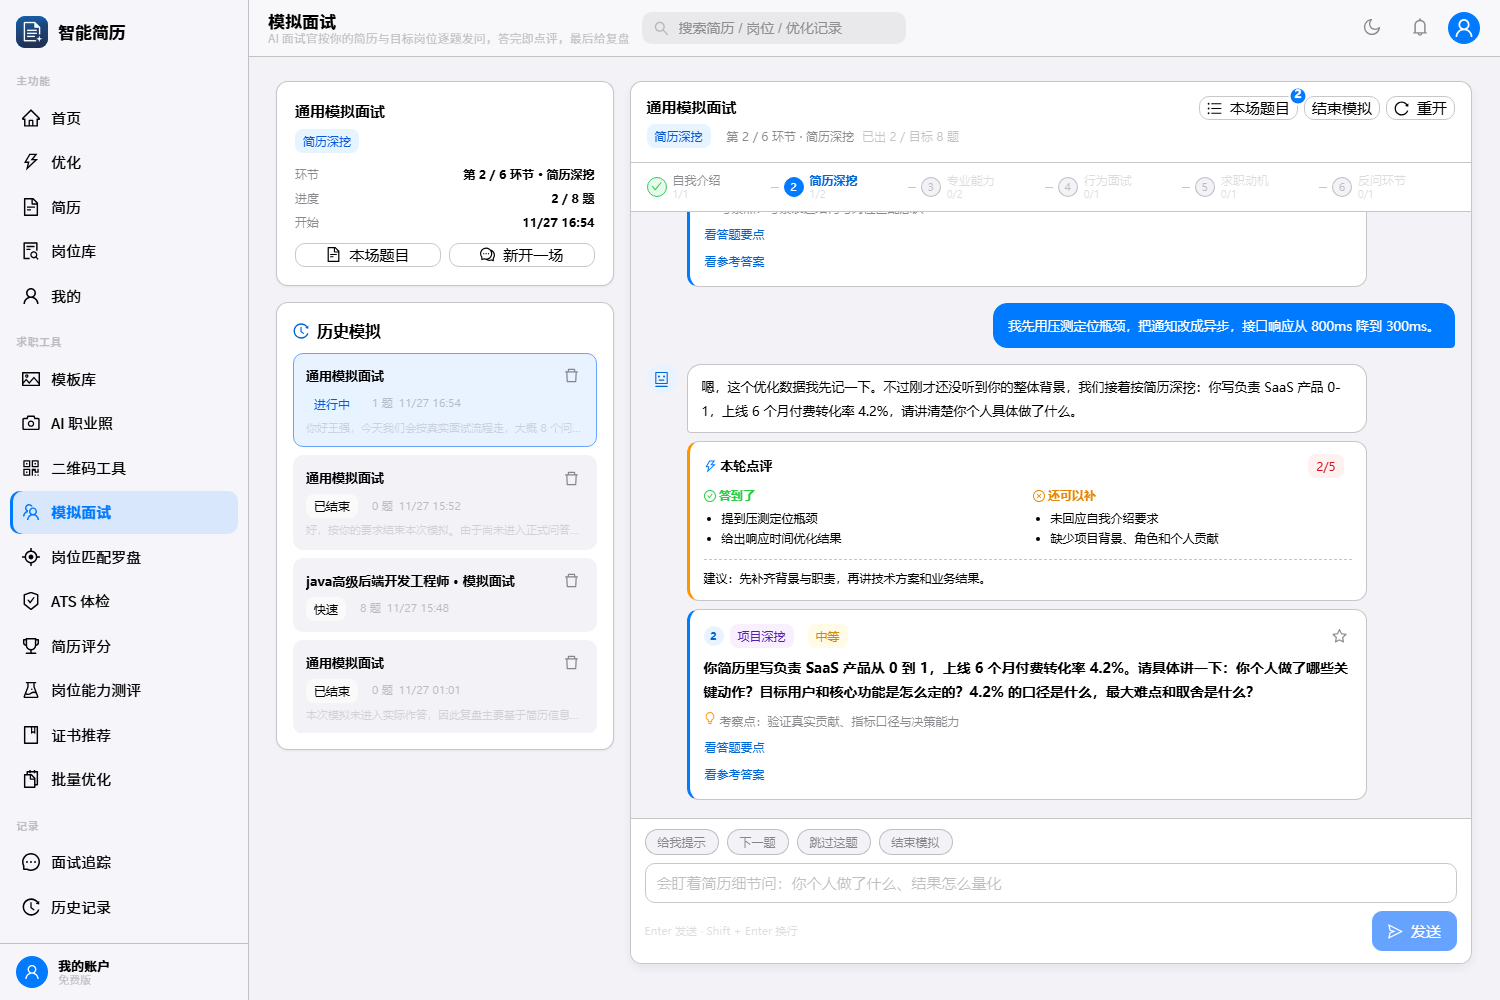
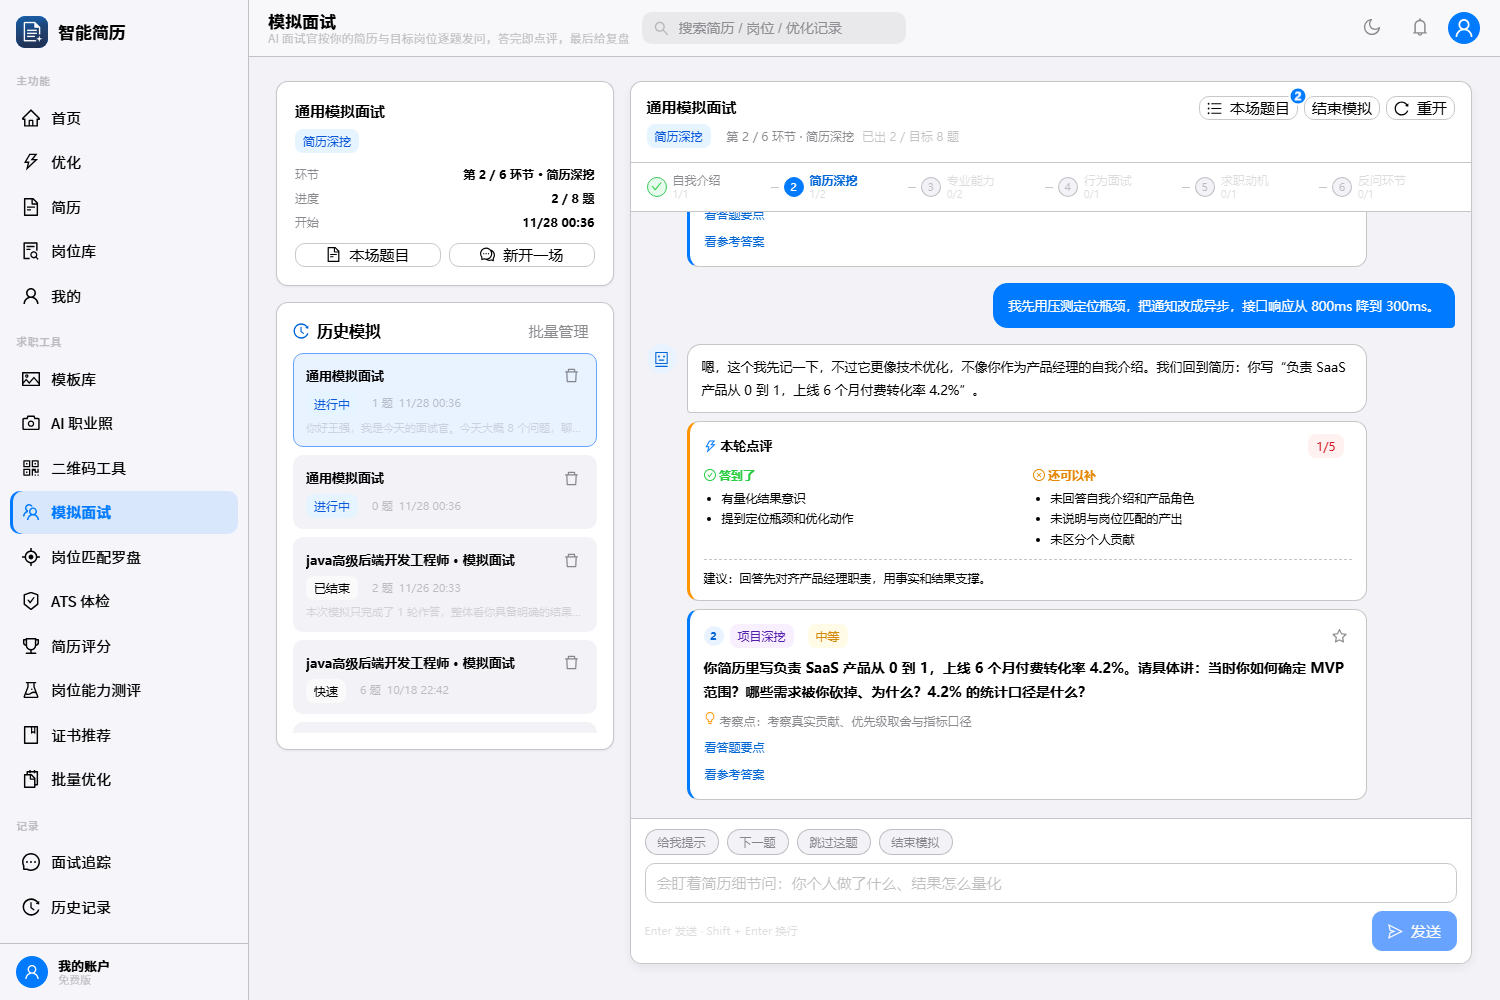
feat(interview): 历史模拟支持批量管理（批量删除）
- 后端新增 POST /api/interview/sessions/batch-delete：逐条校验归属，
  不存在/非本人的 ID 静默跳过并返回 {deleted, skipped}；空列表 422
- 侧栏新增批量管理模式：批量管理入口 → 条目复选框（整行可点选）→
  全选/取消全选 → 删除所选（Popconfirm 二次确认）→ 成功后自动退出；
  批量模式下隐藏单条删除按钮避免操作混淆
- 删除当前打开的会话时主区域同步回到配置面板
- 复选框包 span stopPropagation，防整行 onClick 双重切换
- E2E 新增批量段（两种模式均覆盖）：进入/全选/清空/计数/删除/自动退出；
  删除断言按「选中 ID 从列表消失」判定——总数断言有竞态
  （no-live 模式开场会话正落进列表，实测 13→12 假失败）
- 验收：pytest 316 passed、前端 443/443、tsc 0 错、E2E 47/47；
  接口冒烟：删 2 跳过不存在 1、空列表 422

diff --git a/frontend/src/app/interview/components/SessionSidebar.tsx b/frontend/src/app/interview/components/SessionSidebar.tsx
@@ -1,8 +1,8 @@
 'use client'
 
-/** 左栏：历史模拟会话。 */
-import React from 'react'
-import { Button, Empty, Popconfirm, Spin, Tag } from 'antd'
+/** 左栏：历史模拟会话。支持批量管理模式（勾选 → 全选 → 批量删除）。 */
+import React, { useState } from 'react'
+import { Button, Checkbox, Empty, Popconfirm, Spin, Tag } from 'antd'
 import { DeleteOutlined, HistoryOutlined } from '@ant-design/icons'
 
 import type { InterviewSessionItem } from '@/types'
@@ -20,18 +20,100 @@ export default function SessionSidebar({
   loading,
   onOpen,
   onDelete,
+  onBatchDelete,
 }: {
   sessions: InterviewSessionItem[]
   activeId?: string
   loading: boolean
   onOpen: (id: string) => void
   onDelete: (id: string) => void
+  /** 批量删除：返回实际删除数（>0 时自动退出批量模式）；失败抛错由父级提示 */
+  onBatchDelete: (ids: string[]) => Promise<number>
 }) {
+  const [batchMode, setBatchMode] = useState(false)
+  const [selected, setSelected] = useState<Set<string>>(new Set())
+  const [deleting, setDeleting] = useState(false)
+
+  const toggle = (id: string) => {
+    setSelected((prev) => {
+      const next = new Set(prev)
+      if (next.has(id)) next.delete(id)
+      else next.add(id)
+      return next
+    })
+  }
+
+  const exitBatch = () => {
+    setBatchMode(false)
+    setSelected(new Set())
+  }
+
+  const allSelected = sessions.length > 0 && selected.size === sessions.length
+  const confirmBatchDelete = async () => {
+    setDeleting(true)
+    try {
+      const deleted = await onBatchDelete(Array.from(selected))
+      if (deleted > 0) exitBatch()
+    } finally {
+      setDeleting(false)
+    }
+  }
+
   return (
     <div className="app-card mock-side" style={{ padding: 16, marginTop: 16 }}>
-      <div className="app-section-title" style={{ marginBottom: 10 }}>
-        <HistoryOutlined style={{ color: 'var(--primary-600)' }} /> 历史模拟
+      <div className="mock-side-head">
+        <div className="app-section-title" style={{ marginBottom: 0 }}>
+          <HistoryOutlined style={{ color: 'var(--primary-600)' }} /> 历史模拟
+        </div>
+        {!batchMode && sessions.length > 0 && (
+          <Button
+            size="small"
+            type="text"
+            onClick={() => setBatchMode(true)}
+            data-testid="mock-batch-toggle"
+          >
+            批量管理
+          </Button>
+        )}
       </div>
+
+      {batchMode && (
+        <div className="mock-side-toolbar" data-testid="mock-batch-bar">
+          <Checkbox
+            checked={allSelected}
+            indeterminate={selected.size > 0 && !allSelected}
+            onChange={(e) => setSelected(e.target.checked ? new Set(sessions.map((s) => s.id)) : new Set())}
+            data-testid="mock-batch-all"
+          >
+            全选
+          </Checkbox>
+          <span className="mock-side-toolbar-count">已选 {selected.size} 条</span>
+          <Popconfirm
+            title={`删除所选 ${selected.size} 条记录？`}
+            description="删除后无法恢复，包含其中的题目与复盘。"
+            okText="删除"
+            okButtonProps={{ danger: true }}
+            cancelText="取消"
+            onConfirm={confirmBatchDelete}
+            disabled={selected.size === 0}
+          >
+            <Button
+              size="small"
+              danger
+              disabled={selected.size === 0}
+              loading={deleting}
+              icon={<DeleteOutlined />}
+              data-testid="mock-batch-delete"
+            >
+              删除所选
+            </Button>
+          </Popconfirm>
+          <Button size="small" type="text" onClick={exitBatch}>
+            取消
+          </Button>
+        </div>
+      )}
+
       {loading ? (
         <div style={{ textAlign: 'center', padding: 16 }}><Spin size="small" /></div>
       ) : !sessions.length ? (
@@ -40,44 +122,55 @@ export default function SessionSidebar({
         <div className="mock-side-list">
           {sessions.map((s) => {
             const active = activeId === s.id
+            const checked = selected.has(s.id)
             const title = s.title || (s.job_title ? `${s.job_title} · 模拟面试` : '通用模拟面试')
             return (
               <div
                 key={s.id}
-                className={`mock-side-item${active ? ' active' : ''}`}
+                className={`mock-side-item${active ? ' active' : ''}${batchMode ? ' selectable' : ''}${checked ? ' checked' : ''}`}
                 data-testid="mock-session-item"
                 data-session-id={s.id}
-                onClick={() => onOpen(s.id)}
+                onClick={() => (batchMode ? toggle(s.id) : onOpen(s.id))}
               >
-                <div className="mock-side-row">
-                  <span className="mock-side-title">{title}</span>
-                  <Popconfirm
-                    title="删除这次记录？"
-                    onConfirm={(e) => { e?.stopPropagation(); onDelete(s.id) }}
-                    onCancel={(e) => e?.stopPropagation()}
-                  >
-                    <Button
-                      type="text"
-                      size="small"
-                      aria-label="删除"
-                      icon={<DeleteOutlined />}
-                      onClick={(e) => e.stopPropagation()}
-                    />
-                  </Popconfirm>
+                {batchMode && (
+                  /* Checkbox 点击会同时触发外层行 onClick，包一层 stopPropagation 防止双重切换 */
+                  <span className="mock-side-check" onClick={(e) => e.stopPropagation()}>
+                    <Checkbox checked={checked} onChange={() => toggle(s.id)} />
+                  </span>
+                )}
+                <div className="mock-side-main">
+                  <div className="mock-side-row">
+                    <span className="mock-side-title">{title}</span>
+                    {!batchMode && (
+                      <Popconfirm
+                        title="删除这次记录？"
+                        onConfirm={(e) => { e?.stopPropagation(); onDelete(s.id) }}
+                        onCancel={(e) => e?.stopPropagation()}
+                      >
+                        <Button
+                          type="text"
+                          size="small"
+                          aria-label="删除"
+                          icon={<DeleteOutlined />}
+                          onClick={(e) => e.stopPropagation()}
+                        />
+                      </Popconfirm>
+                    )}
+                  </div>
+                  <div className="mock-side-meta">
+                    {s.mode === 'quick' && <Tag>快速</Tag>}
+                    {s.mode !== 'quick' && (
+                      <Tag color={s.stage === 'finished' ? 'default' : 'blue'}>
+                        {s.stage === 'finished' ? '已结束' : '进行中'}
+                      </Tag>
+                    )}
+                    {s.status === 'failed' && <Tag color="red">失败</Tag>}
+                    {s.status === 'pending' && <Tag color="blue">生成中</Tag>}
+                    <span>{s.question_count || 0} 题</span>
+                    <span>{fmt(s.created_at)}</span>
+                  </div>
+                  {s.last_message && <div className="mock-side-last">{s.last_message}</div>}
                 </div>
-                <div className="mock-side-meta">
-                  {s.mode === 'quick' && <Tag>快速</Tag>}
-                  {s.mode !== 'quick' && (
-                    <Tag color={s.stage === 'finished' ? 'default' : 'blue'}>
-                      {s.stage === 'finished' ? '已结束' : '进行中'}
-                    </Tag>
-                  )}
-                  {s.status === 'failed' && <Tag color="red">失败</Tag>}
-                  {s.status === 'pending' && <Tag color="blue">生成中</Tag>}
-                  <span>{s.question_count || 0} 题</span>
-                  <span>{fmt(s.created_at)}</span>
-                </div>
-                {s.last_message && <div className="mock-side-last">{s.last_message}</div>}
               </div>
             )
           })}

diff --git a/frontend/src/app/interview/page.tsx b/frontend/src/app/interview/page.tsx
@@ -139,6 +139,22 @@ export default function MockInterviewPage() {
     }
   }
 
+  /** 批量删除历史记录；返回实际删除数给侧栏（>0 时其自动退出批量模式） */
+  const handleBatchDelete = async (ids: string[]): Promise<number> => {
+    try {
+      const res = await interview.batchDeleteSessions(ids)
+      const { deleted, skipped } = res.data
+      message.success(skipped ? `已删除 ${deleted} 条，${skipped} 条不存在已跳过` : `已删除 ${deleted} 条记录`)
+      loadSessions()
+      // 当前正在查看的会话被删掉时，清空主区域回到配置面板
+      if (session && ids.includes(session.id)) reset()
+      return deleted
+    } catch {
+      message.error('批量删除失败，请稍后重试')
+      return 0
+    }
+  }
+
   const handleBookmark = async (q: InterviewQuestion) => {
     try {
       const res = await interview.toggleBookmark(q.id)
@@ -226,6 +242,7 @@ export default function MockInterviewPage() {
               loading={loadingList}
               onOpen={handleOpen}
               onDelete={handleDelete}
+              onBatchDelete={handleBatchDelete}
             />
           </Col>
 

diff --git a/frontend/src/app/globals.css b/frontend/src/app/globals.css
@@ -3618,6 +3618,18 @@ body {
   margin-top: 4px; font-size: 11px; color: var(--text-quaternary);
   overflow: hidden; text-overflow: ellipsis; white-space: nowrap;
 }
+/* 批量管理 */
+.mock-side-head { display: flex; align-items: center; justify-content: space-between; margin-bottom: 10px; }
+.mock-side-toolbar {
+  display: flex; align-items: center; gap: 10px; flex-wrap: wrap;
+  padding: 8px 10px; margin-bottom: 10px;
+  background: var(--primary-50); border: 1px solid var(--primary-200); border-radius: 10px;
+}
+.mock-side-toolbar-count { font-size: 12px; color: var(--text-tertiary); }
+.mock-side-item.selectable { display: flex; align-items: flex-start; gap: 8px; }
+.mock-side-item.checked { background: var(--primary-50); border-color: var(--primary-300); }
+.mock-side-check { display: flex; align-items: center; padding-top: 3px; }
+.mock-side-main { flex: 1; min-width: 0; }
 
 /* 对话主区 */
 .mock-chat { display: flex; flex-direction: column; padding: 0 !important; overflow: hidden; min-height: 660px; }

diff --git a/frontend/src/lib/api.ts b/frontend/src/lib/api.ts
@@ -621,6 +621,8 @@ export const interview = {
   listSessions: () => api.get('/api/interview/sessions'),
   getSession: (sessionId: string) => api.get(`/api/interview/sessions/${sessionId}`),
   deleteSession: (sessionId: string) => api.delete(`/api/interview/sessions/${sessionId}`),
+  batchDeleteSessions: (ids: string[]) =>
+    api.post<{ deleted: number; skipped: number }>('/api/interview/sessions/batch-delete', { ids }),
   toggleBookmark: (questionId: string) => api.post(`/api/interview/questions/${questionId}/bookmark`),
   saveNote: (questionId: string, note: string) =>
     api.put(`/api/interview/questions/${questionId}/note`, { note }),

diff --git a/scripts/verify_mock_interview.py b/scripts/verify_mock_interview.py
@@ -266,6 +266,45 @@ def main() -> int:
             else:
                 check("跳过真实 LLM 链路（--no-live）", True)
 
+            # ── 6. 历史记录批量管理（不依赖 LLM，两种模式都覆盖） ──
+            n_items = page.locator('[data-testid="mock-session-item"]').count()
+            check("历史列表有条目可供批量操作", n_items >= 1, f"{n_items} 条")
+            if n_items >= 1:
+                page.locator('[data-testid="mock-batch-toggle"]').click()
+                page.locator('[data-testid="mock-batch-bar"]').wait_for(timeout=10_000)
+                check("进入批量管理模式（条目出现复选框）",
+                      page.locator('.mock-side-item.selectable').count() == n_items,
+                      f"{page.locator('.mock-side-item.selectable').count()}/{n_items}")
+                page.locator('[data-testid="mock-batch-all"]').click()
+                page.wait_for_timeout(300)
+                check("全选后所有条目选中", page.locator('.mock-side-item.checked').count() == n_items)
+                page.locator('[data-testid="mock-batch-all"]').click()
+                page.wait_for_timeout(300)
+                check("取消全选后清空选择", page.locator('.mock-side-item.checked').count() == 0)
+                to_delete = min(2, n_items)
+                for i in range(to_delete):
+                    page.locator('[data-testid="mock-session-item"]').nth(i).click()
+                page.wait_for_timeout(200)
+                check("工具栏显示已选数量",
+                      page.locator('.mock-side-toolbar-count').inner_text().strip() == f"已选 {to_delete} 条",
+                      page.locator('.mock-side-toolbar-count').inner_text().strip())
+                # 在点确认前采集选中 ID：删除成功会退出批量模式，checked 类随消失
+                checked_ids = page.evaluate(
+                    "() => Array.from(document.querySelectorAll('.mock-side-item.checked'))"
+                    ".map(e => e.getAttribute('data-session-id'))"
+                )
+                page.locator('[data-testid="mock-batch-delete"]').click()
+                page.locator('.ant-popover button.ant-btn-dangerous').click()
+                # 不比对列表总数：此时可能有新会话正落进列表（如开场进行中），
+                # 总数竞态不稳定；按「选中的 ID 删除后从列表消失」判定（确定性）。
+                page.wait_for_timeout(2000)
+                remaining = sum(page.locator(f'[data-session-id="{cid}"]').count() for cid in checked_ids)
+                check("批量删除的条目从列表消失", len(checked_ids) == to_delete and remaining == 0,
+                      f"选中 {len(checked_ids)} 条，残留 {remaining}")
+                check("删除成功后自动退出批量模式",
+                      page.locator('[data-testid="mock-batch-bar"]').count() == 0
+                      and page.locator('[data-testid="mock-batch-toggle"]').count() == 1)
+
             # ── 控制台 ──
             hydration = [t for t in console_errors if "hydrat" in t.lower() or "did not match" in t.lower()]
             check("无水合错误", len(hydration) == 0, f"{len(hydration)} 条")

diff --git a/backend/app/api/interview.py b/backend/app/api/interview.py
@@ -93,6 +93,10 @@ class NoteRequest(BaseModel):
     note: str = Field(default="", max_length=4000)
 
 
+class BatchDeleteRequest(BaseModel):
+    ids: list[str] = Field(min_length=1, max_length=200)
+
+
 # ── 序列化 ───────────────────────────────────────────────────────
 
 
@@ -787,6 +791,34 @@ async def delete_session(
     await db.delete(session)
     await db.commit()
     return {"detail": "已删除"}
+
+
+@router.post("/sessions/batch-delete")
+async def batch_delete_sessions(
+    body: BatchDeleteRequest,
+    db: AsyncSession = Depends(get_db),
+    user: User = Depends(get_current_user),
+):
+    """批量删除历史模拟会话。逐条校验归属，别人的 / 不存在的 ID 静默跳过。
+
+    返回 deleted 数量，前端据此提示「成功 N 条 / 跳过 M 条」。
+    """
+    deleted = 0
+    skipped = 0
+    for sid in dict.fromkeys(body.ids):  # 去重，保持顺序
+        result = await db.execute(
+            select(InterviewSession).where(
+                InterviewSession.id == sid, InterviewSession.user_id == user.id
+            )
+        )
+        session = result.scalars().unique().one_or_none()
+        if session:
+            await db.delete(session)
+            deleted += 1
+        else:
+            skipped += 1
+    await db.commit()
+    return {"deleted": deleted, "skipped": skipped}
 
 
 # ── 题目资产：收藏 / 笔记 / 收藏夹 ───────────────────────────────
